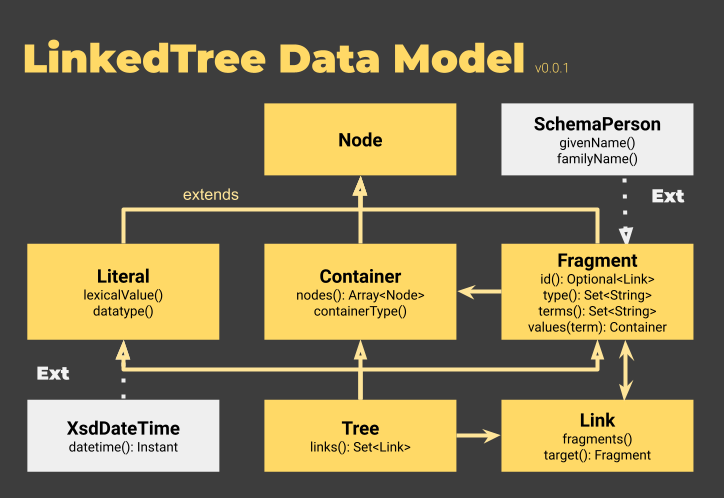
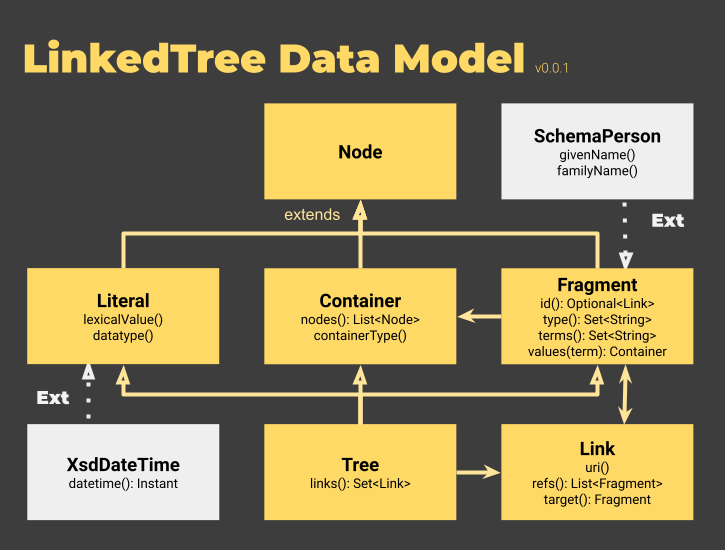
Minor improvements

diff --git a/src/main/java/com/apicatalog/linkedtree/jsonld/io/JsonLdTreeWriter.java b/src/main/java/com/apicatalog/linkedtree/jsonld/io/JsonLdTreeWriter.java
@@ -122,18 +122,18 @@ public class JsonLdTreeWriter {
 
             // 2.4.1.
             if (XsdConstants.STRING.equals(literal.datatype())) {
-                convertedValue = Json.createValue(literal.value());
+                convertedValue = Json.createValue(literal.lexicalValue());
 
             } else if (literal instanceof JsonScalar jsonScalar) {
                 convertedValue = jsonScalar.jsonValue();
 
             } else if (XsdConstants.BOOLEAN.equals(literal.datatype())) {
 
-                if ("true".equalsIgnoreCase(literal.value())) {
+                if ("true".equalsIgnoreCase(literal.lexicalValue())) {
 
                     convertedValue = JsonValue.TRUE;
 
-                } else if ("false".equalsIgnoreCase(literal.value())) {
+                } else if ("false".equalsIgnoreCase(literal.lexicalValue())) {
 
                     convertedValue = JsonValue.FALSE;
 
@@ -148,7 +148,7 @@ public class JsonLdTreeWriter {
 
             } else if (XsdConstants.INTEGER.equals(literal.datatype()) || XsdConstants.INT.equals(literal.datatype()) || XsdConstants.LONG.equals(literal.datatype())) {
 
-                convertedValue = Json.createValue(Long.parseLong(literal.value()));
+                convertedValue = Json.createValue(Long.parseLong(literal.lexicalValue()));
 
             } else if (literal instanceof JsonDecimal jsonDecimal) {
 
@@ -156,7 +156,7 @@ public class JsonLdTreeWriter {
 
             } else if (XsdConstants.DOUBLE.equals(literal.datatype()) || XsdConstants.FLOAT.equals(literal.datatype())) {
 
-                convertedValue = Json.createValue(Double.parseDouble(literal.value()));
+                convertedValue = Json.createValue(Double.parseDouble(literal.lexicalValue()));
 
             } else if (literal instanceof NumericValue numericValue) {
 
@@ -168,7 +168,7 @@ public class JsonLdTreeWriter {
                 type = JsonLdKeyword.JSON;
 
             } else if (RdfConstants.JSON.equals(literal.datatype())) {
-                try (JsonParser parser = Json.createParser(new StringReader(literal.value()))) {
+                try (JsonParser parser = Json.createParser(new StringReader(literal.lexicalValue()))) {
 
                     parser.next();
 
@@ -227,7 +227,7 @@ public class JsonLdTreeWriter {
 
         result.add(JsonLdKeyword.VALUE, (convertedValue != null)
                 ? convertedValue
-                : Json.createValue(literal.value()));
+                : Json.createValue(literal.lexicalValue()));
 
         if (type != null) {
             result.add(JsonLdKeyword.TYPE, Json.createValue(type));

diff --git a/src/main/java/com/apicatalog/linkedtree/jsonld/io/JsonLdTreeReader.java b/src/main/java/com/apicatalog/linkedtree/jsonld/io/JsonLdTreeReader.java
@@ -30,10 +30,10 @@ import com.apicatalog.linkedtree.jsonld.JsonLdKeyword;
 import com.apicatalog.linkedtree.lang.ImmutableLangString;
 import com.apicatalog.linkedtree.link.Link;
 import com.apicatalog.linkedtree.link.MutableLink;
+import com.apicatalog.linkedtree.literal.ImmutableLinkedLiteral;
 import com.apicatalog.linkedtree.pi.ProcessingInstruction;
 import com.apicatalog.linkedtree.primitive.GenericLinkedContainer;
 import com.apicatalog.linkedtree.primitive.GenericLinkedFragment;
-import com.apicatalog.linkedtree.primitive.GenericLinkedLiteral;
 import com.apicatalog.linkedtree.primitive.GenericLinkedTree;
 import com.apicatalog.linkedtree.xsd.XsdConstants;
 
@@ -79,7 +79,7 @@ public class JsonLdTreeReader {
         final LinkedTree tree = GenericLinkedTree.of(readNodes(jsonNodes, links), links);
 
         for (final Link link : links.values()) {
-            ((MutableLink) link).target(adapt(((MutableLink) link), mergeTypes(link.fragments()), merge(link.fragments()), null));
+            ((MutableLink) link).target(adapt(((MutableLink) link), mergeTypes(link.refs()), merge(link.refs()), null));
         }
 
         return tree;
@@ -248,7 +248,7 @@ public class JsonLdTreeReader {
         }
 
         for (final Link link : links.values()) {
-            ((MutableLink) link).target(adapt(((MutableLink) link), mergeTypes(link.fragments()), merge(link.fragments()), null));
+            ((MutableLink) link).target(adapt(((MutableLink) link), mergeTypes(link.refs()), merge(link.refs()), null));
         }
 
         if (id != null) {
@@ -427,7 +427,7 @@ public class JsonLdTreeReader {
                     getPi(valueJsonObject, JsonLdKeyword.VALUE, JsonLdKeyword.TYPE, JsonLdKeyword.LANGUAGE));
         }
 
-        return new GenericLinkedLiteral(
+        return new ImmutableLinkedLiteral(
                 valueString,
                 datatype,
                 getPi(valueJsonObject, JsonLdKeyword.VALUE, JsonLdKeyword.TYPE));

diff --git a/src/test/java/com/apicatalog/linkedtree/jsonld/JsonLdAdaptersTest.java b/src/test/java/com/apicatalog/linkedtree/jsonld/JsonLdAdaptersTest.java
@@ -66,12 +66,12 @@ class JsonLdAdaptersTest {
                 .cast(ByteArrayValue.class);
 
         assertNotNull(literal);
-        assertEquals("RW5jb2RlIHRvIEJhc2U2NCBmb3JtYXQ=", literal.value());
+        assertEquals("RW5jb2RlIHRvIEJhc2U2NCBmb3JtYXQ=", literal.lexicalValue());
         assertTrue(literal instanceof ByteArrayValue);
         assertArrayEquals("Encode to Base64 format".getBytes(), ((ByteArrayValue) literal).byteArrayValue());
 
         ((Base64ByteArray) literal).byteArrayValue("test X".getBytes());
-        assertEquals("dGVzdCBY", literal.value());
+        assertEquals("dGVzdCBY", literal.lexicalValue());
 
         JsonArray copy = WRITER.writeExpanded(tree);
 
@@ -106,7 +106,7 @@ class JsonLdAdaptersTest {
         })), vc.type());
 
         assertEquals(1, vc.name.size());
-        assertEquals("Alumni Credential", vc.name.single().value());
+        assertEquals("Alumni Credential", vc.name.single().lexicalValue());
         assertNull(vc.name.single().language());
 
         assertEquals(1, vc.name.strings().size());

diff --git a/src/main/java/com/apicatalog/linkedtree/xsd/XsdDateTime.java b/src/main/java/com/apicatalog/linkedtree/xsd/XsdDateTime.java
@@ -3,9 +3,10 @@ package com.apicatalog.linkedtree.xsd;
 import java.time.Instant;
 
 import com.apicatalog.linkedtree.LinkedLiteral;
+import com.apicatalog.linkedtree.literal.DateTimeValue;
 import com.apicatalog.linkedtree.pi.ProcessingInstruction;
 
-public class XsdDateTime implements LinkedLiteral {
+public class XsdDateTime implements LinkedLiteral, DateTimeValue {
 
     public static final String TYPE = XsdConstants.DATE_TIME;
 
@@ -33,6 +34,7 @@ public class XsdDateTime implements LinkedLiteral {
         return new XsdDateTime(datetime, pi);
     }
 
+    @Override
     public Instant datetime() {
         if (datetime == null && value != null) {
             // TODO check
@@ -43,7 +45,7 @@ public class XsdDateTime implements LinkedLiteral {
     }
 
     @Override
-    public String value() {
+    public String lexicalValue() {
         if (value == null && datetime != null) {
             // TODO
         }

diff --git a/src/test/java/com/apicatalog/linkedtree/jsonld/JsonLdLinkTest.java b/src/test/java/com/apicatalog/linkedtree/jsonld/JsonLdLinkTest.java
@@ -46,7 +46,7 @@ class JsonLdLinkTest {
         assertNotNull(tree.links());
         assertEquals(1, tree.links().size());
         assertNotNull(tree.links().iterator().next());
-        assertNotNull(tree.links().iterator().next().fragments());
+        assertNotNull(tree.links().iterator().next().refs());
         assertNotNull(tree.links().iterator().next().target());
         assertTrue(tree.links().iterator().next().target().isFragment());
 
@@ -63,7 +63,7 @@ class JsonLdLinkTest {
         assertNotNull(tree.links());
         assertEquals(3, tree.links().size());
         assertNotNull(tree.links().iterator().next());
-        assertNotNull(tree.links().iterator().next().fragments());
+        assertNotNull(tree.links().iterator().next().refs());
         assertNotNull(tree.links().iterator().next().target());
         assertTrue(tree.links().iterator().next().target().isFragment());
     }

diff --git a/src/main/java/com/apicatalog/linkedtree/literal/ImmutableLinkedLiteral.java b/src/main/java/com/apicatalog/linkedtree/literal/ImmutableLinkedLiteral.java
@@ -1,10 +1,10 @@
-package com.apicatalog.linkedtree.primitive;
+package com.apicatalog.linkedtree.literal;
 
 import com.apicatalog.linkedtree.LinkedLiteral;
 import com.apicatalog.linkedtree.pi.ProcessingInstruction;
 
-public record GenericLinkedLiteral(
-        String value,
+public record ImmutableLinkedLiteral(
+        String lexicalValue,
         String datatype,
         ProcessingInstruction pi) implements LinkedLiteral {
 

diff --git a/src/main/java/com/apicatalog/linkedtree/lang/ImmutableLangString.java b/src/main/java/com/apicatalog/linkedtree/lang/ImmutableLangString.java
@@ -3,7 +3,7 @@ package com.apicatalog.linkedtree.lang;
 import com.apicatalog.linkedtree.pi.ProcessingInstruction;
 
 public record ImmutableLangString(
-        String value,
+        String lexicalValue,
         String language,
         LanguageDirectionType direction,
         ProcessingInstruction pi) implements LangString {

diff --git a/src/main/java/com/apicatalog/linkedtree/link/Link.java b/src/main/java/com/apicatalog/linkedtree/link/Link.java
@@ -13,7 +13,7 @@ public interface Link {
      * 
      * @return a collection of fragments in a tree
      */
-    Collection<LinkedFragment> fragments();
+    Collection<LinkedFragment> refs();
 
     /**
      * A fragment composed of all fragments - adapted if an adapter is present

diff --git a/src/test/java/com/apicatalog/linkedtree/jsonld/Base64ByteArray.java b/src/test/java/com/apicatalog/linkedtree/jsonld/Base64ByteArray.java
@@ -24,7 +24,7 @@ class Base64ByteArray implements ByteArrayValue {
     }
 
     @Override
-    public String value() {
+    public String lexicalValue() {
         if (value == null && byteArray != null) {
             value = Base64.getEncoder().encodeToString(byteArray);
         }

diff --git a/src/main/java/com/apicatalog/linkedtree/LinkedLiteral.java b/src/main/java/com/apicatalog/linkedtree/LinkedLiteral.java
@@ -17,7 +17,7 @@ public non-sealed interface LinkedLiteral extends LinkedNode {
      *
      * @return lexical value, never <code>null</code>
      */
-    String value();
+    String lexicalValue();
 
     /**
      * An absolute IRI denoting the datatype IRI of the literal.

diff --git a/src/main/java/com/apicatalog/linkedtree/json/JsonLiteral.java b/src/main/java/com/apicatalog/linkedtree/json/JsonLiteral.java
@@ -25,7 +25,7 @@ public class JsonLiteral implements LinkedLiteral {
     }
 
     @Override
-    public String value() {
+    public String lexicalValue() {
         if (value == null) {
             value = JsonCanonicalizer.canonicalize(json);
         }

diff --git a/src/main/java/com/apicatalog/linkedtree/json/JsonDecimal.java b/src/main/java/com/apicatalog/linkedtree/json/JsonDecimal.java
@@ -38,7 +38,7 @@ public class JsonDecimal implements NumericValue, DoubleValue {
     }
     
     @Override
-    public String value() {
+    public String lexicalValue() {
         return xsdNumberFormat.format(json.bigDecimalValue());
     }
 
